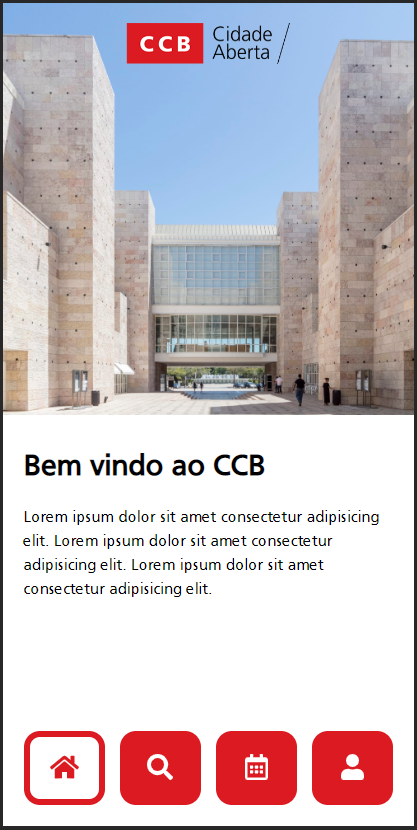
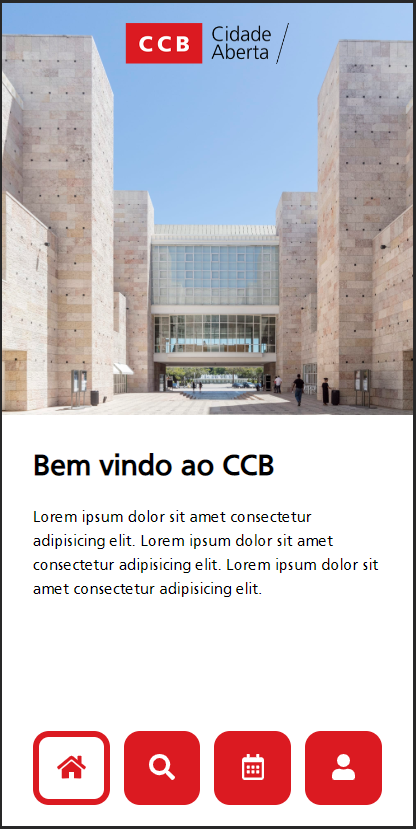
Added bottom-menu5.html with a 5 button bottom menu.

diff --git a/bottom-menu-5.html b/bottom-menu-5.html
@@ -1,0 +1,73 @@
+<!doctype html>
+<html lang="pt">
+<head> 
+	<meta charset="utf-8">
+	<title></title>
+	<meta name="mobile-web-app-capable" content="yes">
+	<meta name="format-detection" content="telephone=no" />
+	<!--Generic meta-->
+	<meta name="viewport" content="width=device-width, initial-scale=1, initial-scale = 1.0, shrink-to-fit=no, user-scalable=no">
+	<meta name="description" content=""/>
+	<meta name="keywordds" content=""/>
+	<!--fb meta-->
+	<meta property="og:url" content="" />
+	<meta property="og:type" content="website" />
+	<meta property="og:title" content="" /> 
+	<meta property="og:description" content="" />
+	<meta property="og:image" content="" />
+	<!--favicon-->
+	<link rel="shortcut icon" href="images/favicon.ico" />
+	<link rel="icon" type="image/ico" href="images/favicon.ico" />
+	<!--Icons-->
+	<link rel="stylesheet" type="text/css" href="https://cdnjs.cloudflare.com/ajax/libs/font-awesome/5.13.0/css/all.min.css">
+	<script type="text/javascript" src="https://cdnjs.cloudflare.com/ajax/libs/font-awesome/5.13.1/js/all.min.js"></script>
+	<!--Font-->
+	<link href="https://fonts.googleapis.com/css2?family=Montserrat:wght@400;600;900&display=swap" rel="stylesheet">
+	<!--Links-->
+	<link rel="stylesheet" href="css/main.css">
+</head>
+<body>
+
+	<img class="logo" src="images/LogoCCBCidadeAberta300px.png" alt="CCB logo">
+
+	<section class="welcome-img">
+		<img src="images/ccb-out.jpg" alt="Fachada do CCB.">
+	</section>
+
+	<section class="welcome-info">
+		<article>
+			<h1>Bem vindo ao CCB</h1>
+			<p>Lorem ipsum dolor sit amet consectetur adipisicing elit.
+				Lorem ipsum dolor sit amet consectetur adipisicing elit.
+				Lorem ipsum dolor sit amet consectetur adipisicing elit.
+			</p>
+			<div class="qrcode qr-down">
+				<img src="images/qrcode.png" alt="Código QR, a tua chave da Cidade Aberta.">
+			</div>
+			<div class="cover-screen hidden"></div>
+		</article>
+        <div class="bottom-menu5">
+            <button class="active">
+                <i class="fas fa-home"></i>
+            </button>
+            <button>
+                <i class="fas fa-search"></i>
+            </button>
+            <button>
+                <i class="fas fa-key"></i>
+            </button>
+            <button>
+                <i class="far fa-calendar-alt"></i>
+            </button>
+            <button>
+                <i class="fas fa-user"></i>
+            </button>
+        </div>
+	</section>
+
+</body>
+<footer>
+	<script src="js/getQRCode.js"></script>
+
+</footer>
+</html>

diff --git a/scss/_welcome.scss b/scss/_welcome.scss
@@ -15,7 +15,6 @@ section {
 
 .welcome-img {
 
-
     img {
         min-width:100%;
         height:100%;
@@ -29,7 +28,7 @@ section {
     text-align:center;
 
     article {
-        width:90%;
+        width:85%;
         height:90%;
         margin:5% auto;
         font-family: ccb-font;
@@ -88,11 +87,11 @@ section {
                     transform: scale(1.05);
                     transition:transform 0.1s ease;
                 }
-                &:first-of-type {
-                    background-color:#fff;
-                    border:$ccb-color solid 6px;
-                    color:$ccb-color;
-                }
+            }
+            .active {
+                background-color:#fff;
+                border:$ccb-color solid 6px;
+                color:$ccb-color;
             }
         }
         .qrcode {
@@ -126,8 +125,53 @@ section {
             transition:bottom 0.8s ease;
         }
         .qr-down {
-            bottom:-50%;
+            bottom:-70%;
             transition:bottom 0.8s ease;
+        }
+    }
+    .bottom-menu5 {
+        background-color: $ccb-color;
+        position:absolute;
+        bottom:0;
+        width:100%;
+        height:8%;
+        margin:auto;
+        line-height:100%;
+
+        button {
+            background-color:transparent;
+            border:none;
+            border-radius:10px;
+            width:12%;
+            height:70%;
+            color:white;
+            font-family: ccb-font;
+            font-size:26px;
+            line-height:100%;
+            transform:translateY(-16%);
+
+            &:nth-of-type(3) {
+                background-color:#376787;
+                border:#fff solid 5px;
+                border-radius:50%;
+                transform:translateY(-35%);
+                width:80px;
+                height:80px;
+                margin:0 2%;
+                font-size:30px;
+            }
+            &:nth-of-type(-n + 2) {
+                margin:0 2%;
+            }
+            &:nth-of-type(n + 4) {
+                margin:0 2%;
+            }
+        }
+        .active {
+            background-color:#fff;
+            color:$ccb-color;
+            transform:scale(1.05) translateY(-16%);
+
         }
     }
 }

diff --git a/css/main.css b/css/main.css
@@ -112,7 +112,7 @@ section {
   background-color: white;
   text-align: center; }
   .welcome-info article {
-    width: 90%;
+    width: 85%;
     height: 90%;
     margin: 5% auto;
     font-family: ccb-font;
@@ -160,10 +160,10 @@ section {
           background-color: #CC1A21;
           transform: scale(1.05);
           transition: transform 0.1s ease; }
-        .welcome-info article .bottom-menu button:first-of-type {
-          background-color: #fff;
-          border: #db1a21 solid 6px;
-          color: #db1a21; }
+      .welcome-info article .bottom-menu .active {
+        background-color: #fff;
+        border: #db1a21 solid 6px;
+        color: #db1a21; }
     .welcome-info article .qrcode {
       text-align: center;
       background-color: white;
@@ -190,8 +190,44 @@ section {
       bottom: 15%;
       transition: bottom 0.8s ease; }
     .welcome-info article .qr-down {
-      bottom: -50%;
+      bottom: -70%;
       transition: bottom 0.8s ease; }
+  .welcome-info .bottom-menu5 {
+    background-color: #db1a21;
+    position: absolute;
+    bottom: 0;
+    width: 100%;
+    height: 8%;
+    margin: auto;
+    line-height: 100%; }
+    .welcome-info .bottom-menu5 button {
+      background-color: transparent;
+      border: none;
+      border-radius: 10px;
+      width: 12%;
+      height: 70%;
+      color: white;
+      font-family: ccb-font;
+      font-size: 26px;
+      line-height: 100%;
+      transform: translateY(-16%); }
+      .welcome-info .bottom-menu5 button:nth-of-type(3) {
+        background-color: #376787;
+        border: #fff solid 5px;
+        border-radius: 50%;
+        transform: translateY(-35%);
+        width: 80px;
+        height: 80px;
+        margin: 0 2%;
+        font-size: 30px; }
+      .welcome-info .bottom-menu5 button:nth-of-type(-n + 2) {
+        margin: 0 2%; }
+      .welcome-info .bottom-menu5 button:nth-of-type(n + 4) {
+        margin: 0 2%; }
+    .welcome-info .bottom-menu5 .active {
+      background-color: #fff;
+      color: #db1a21;
+      transform: scale(1.05) translateY(-16%); }
 
 .hidden {
   display: none; }

diff --git a/bottom-menu-4.html b/bottom-menu-4.html
@@ -42,7 +42,7 @@
 				Lorem ipsum dolor sit amet consectetur adipisicing elit.
 			</p>
 			<div class="bottom-menu">
-				<button>
+				<button class="active">
 					<i class="fas fa-home"></i>
 				</button>
 				<button>
